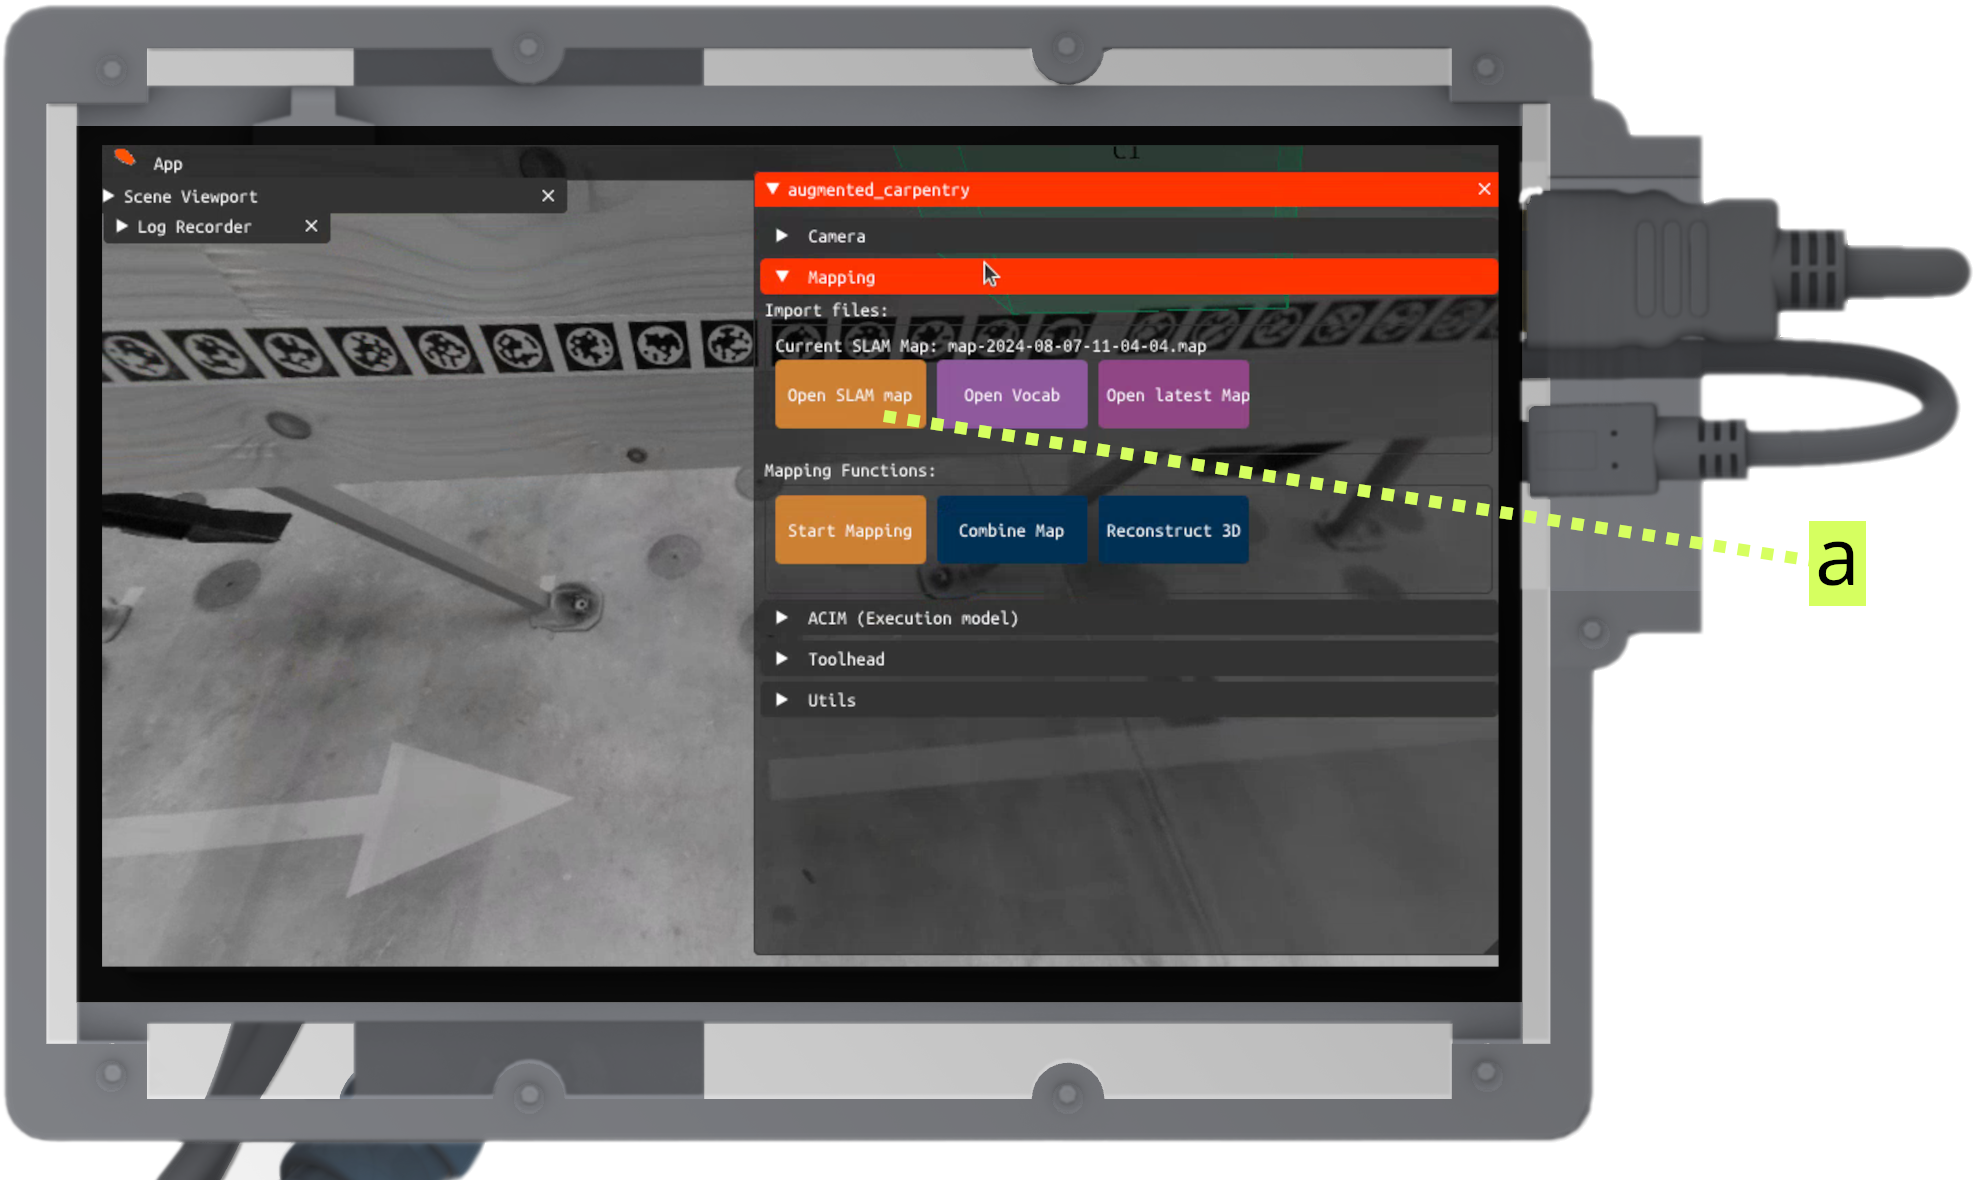
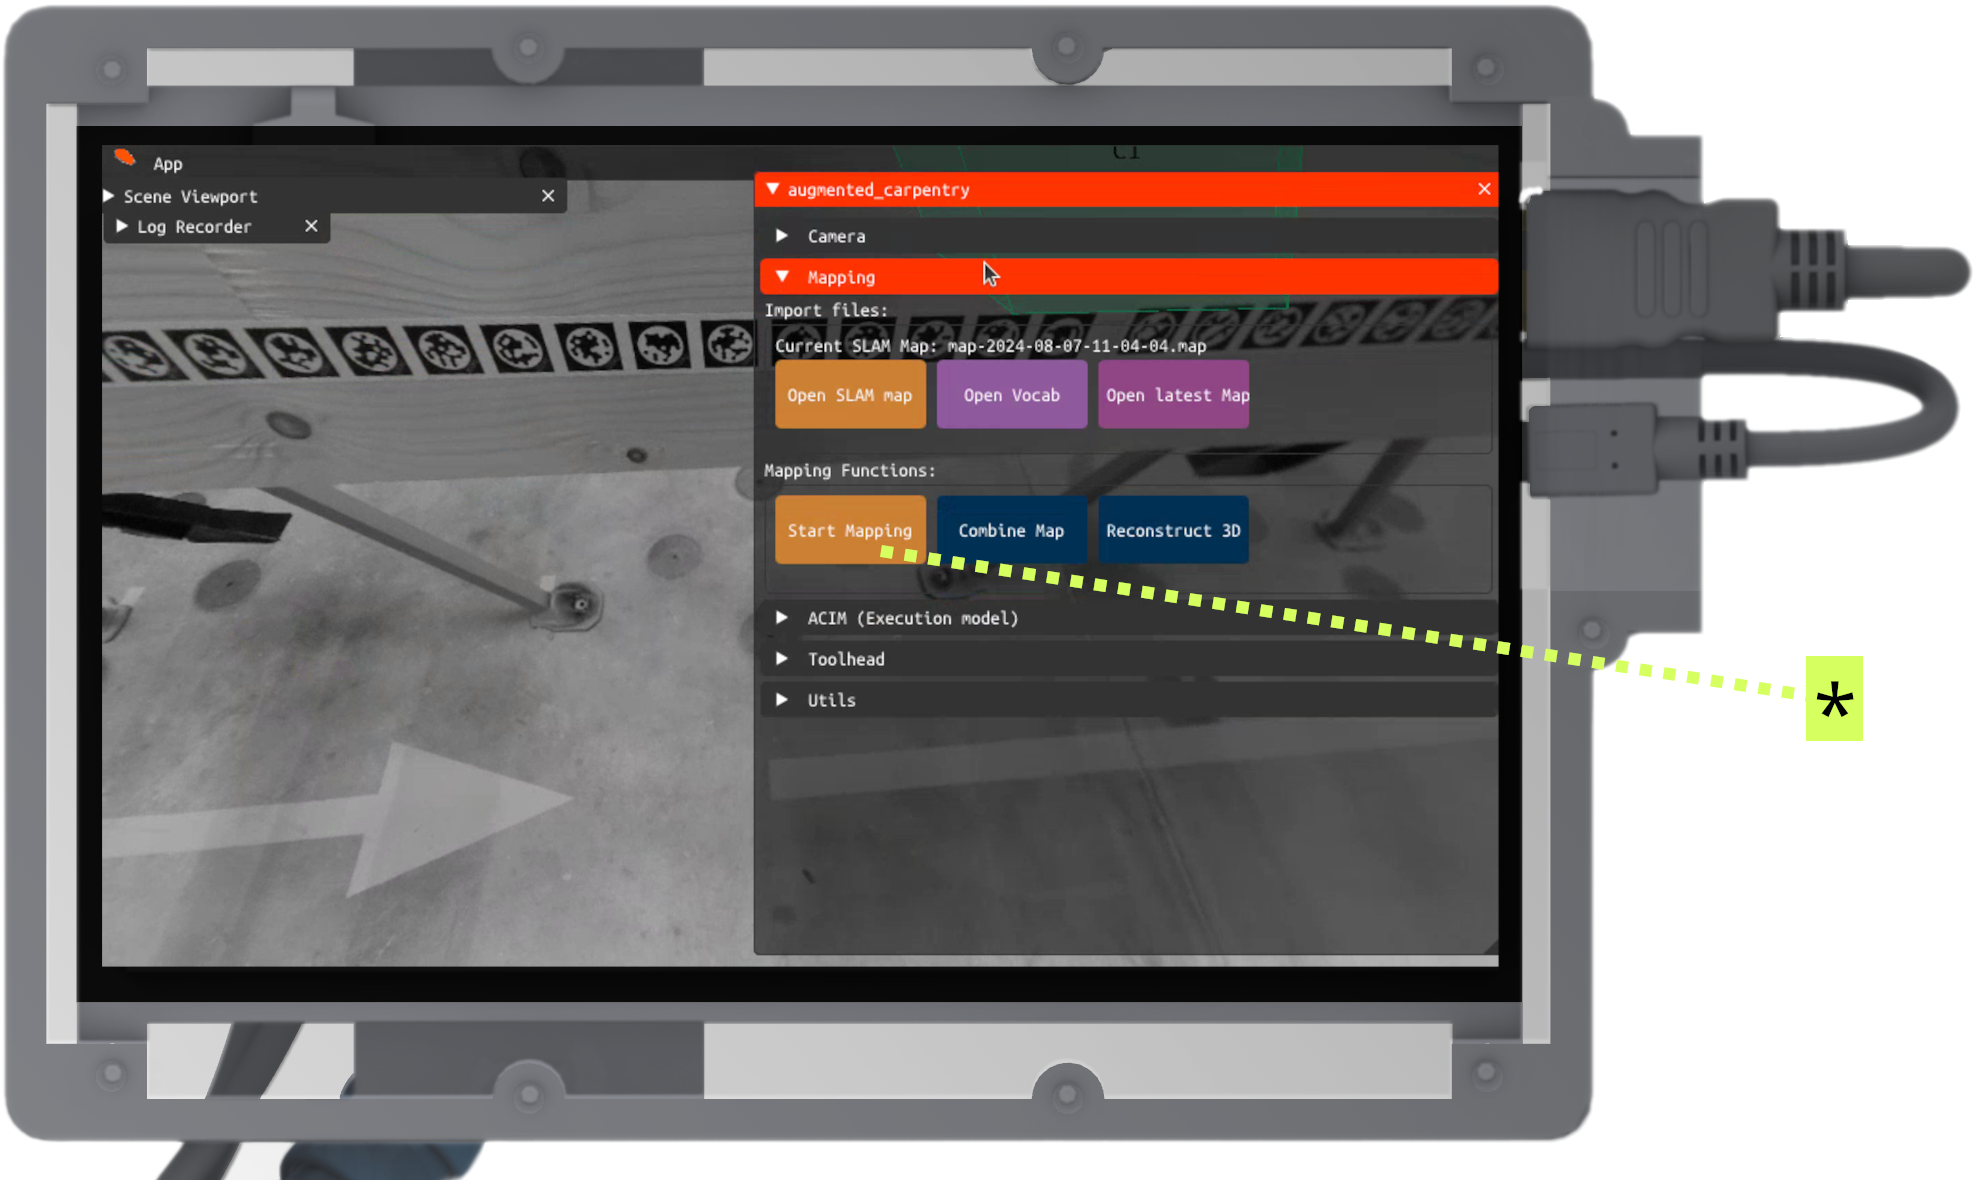
WIP: working on map chapter

diff --git a/docs/augmented-woodworking/map.md b/docs/augmented-woodworking/map.md
@@ -22,7 +22,7 @@ Go around the piece to map it
 ![Image title](../assets/images/woodworking/map_selectstart_01.png)
 </figure>
 <div class="description" markdown>
-Click the button **Save & Exit** (**a**) to start the mapping process.
+Click the button **Start Mapping** (*) to start the mapping process.
 </div>
 </div>
 
@@ -36,9 +36,9 @@ The mapping is now started.
 
 **a** - landmark feature points used to facilitate camera localization
 
-**b** - tags already acquired
+**b** - tags already acquired (yellow)
 
-**c** - newly detected tags pending acquisition
+**c** - newly detected tags pending acquisition (blue)
 
 **d** - map-building overview
 
@@ -50,14 +50,24 @@ The mapping is now started.
 </div>
 </div>
 
-<!-- TODO: transform this in a GIF and add the template to css -->
-<!-- Mid mapping -->
+<!-- Mid mapping NB: autovideo-->
 <div class="sevinch-display-tutorial" markdown>
 <figure markdown>
-![Image title](../assets/images/woodworking/map_midmap_03b.png)
+<div class="video-container">
+    <iframe 
+        src="https://player.vimeo.com/video/1065559795?h=afb4e097b9&amp;background=1&amp;autopause=0&amp;loop=1&amp;autoplay=1&amp;muted=1&amp;controls=0&amp;title=0&amp;byline=0&amp;portrait=0" 
+        frameborder="0" 
+        allow="autoplay; fullscreen; picture-in-picture" 
+        allowfullscreen>
+    </iframe>
+    <img 
+        src="https://github.com/ibois-epfl/augmented-carpentry/blob/main/docs/assets/images/frame-overlay.png?raw=true"
+        class="frame-overlay"
+    />
+</div>
 </figure>
 <div class="description" markdown>
-Go around the timber piece, turn it around, and capture as many tags as possible.
+Go around the timber piece, turn it when needed, and capture as many tags as possible.
 </div>
 </div>
 
@@ -71,6 +81,11 @@ Click on the **Save & Exit** button to save the mapping and start the processing
 </div>
 </div>
 
+<!-- TODO: Load acim model (UI interface to select acim navigation) -->
+
+<!-- TODO: Visualize the piece with 3D model overlay -->
+
+<!-- FIXME: add the tab block inside, see how it can work>
 <!-- In case of reconstruction failure -->
 <div class="sevinch-display-tutorial" markdown>
 <figure markdown>
@@ -88,18 +103,6 @@ Click on the **Save & Exit** button to save the mapping and start the processing
 </div>
 </figure>
 <div class="description" markdown>
-This is a **test** description.
+In case the reconstruction fails, follow **this** procedure. You can try to reconstruct the piece with different parameters. We have several presets available to try based on the element's length.
 </div>
 </div>
-
-
-
-
-
-
-
-<!-- Load acim model (UI interface to select acim navigation) -->
-
-<!-- Visualize the piece with 3D model overlay -->
-
-<!-- *Extra: Custom reconstruction -->
